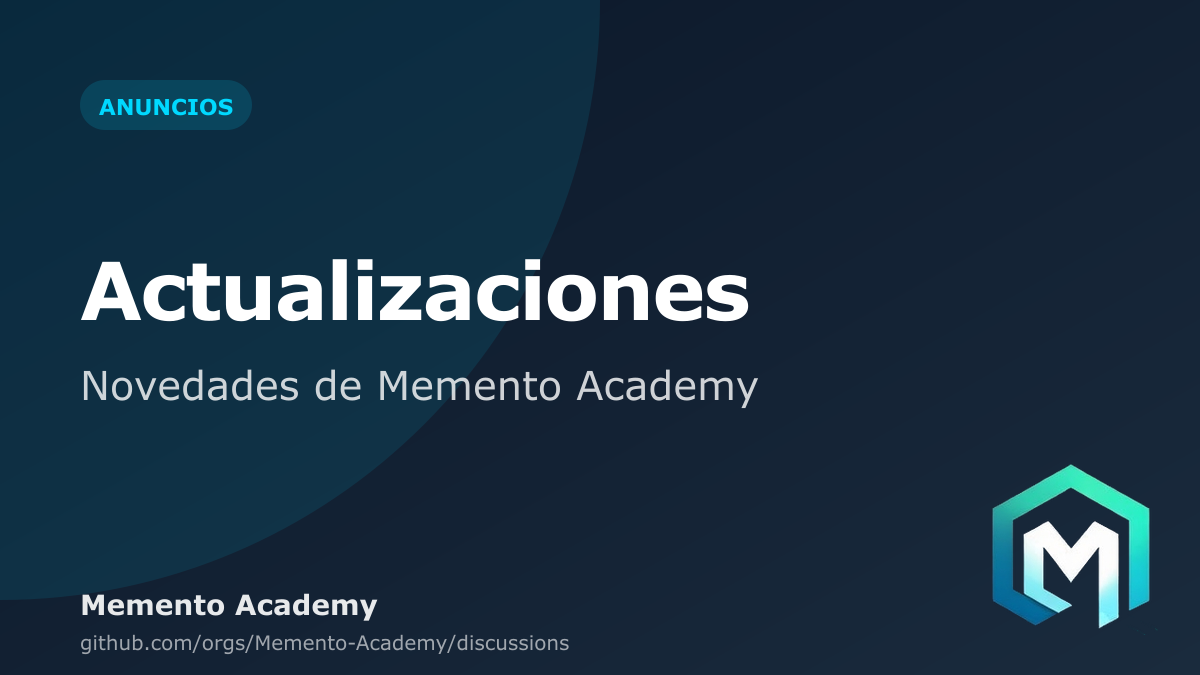
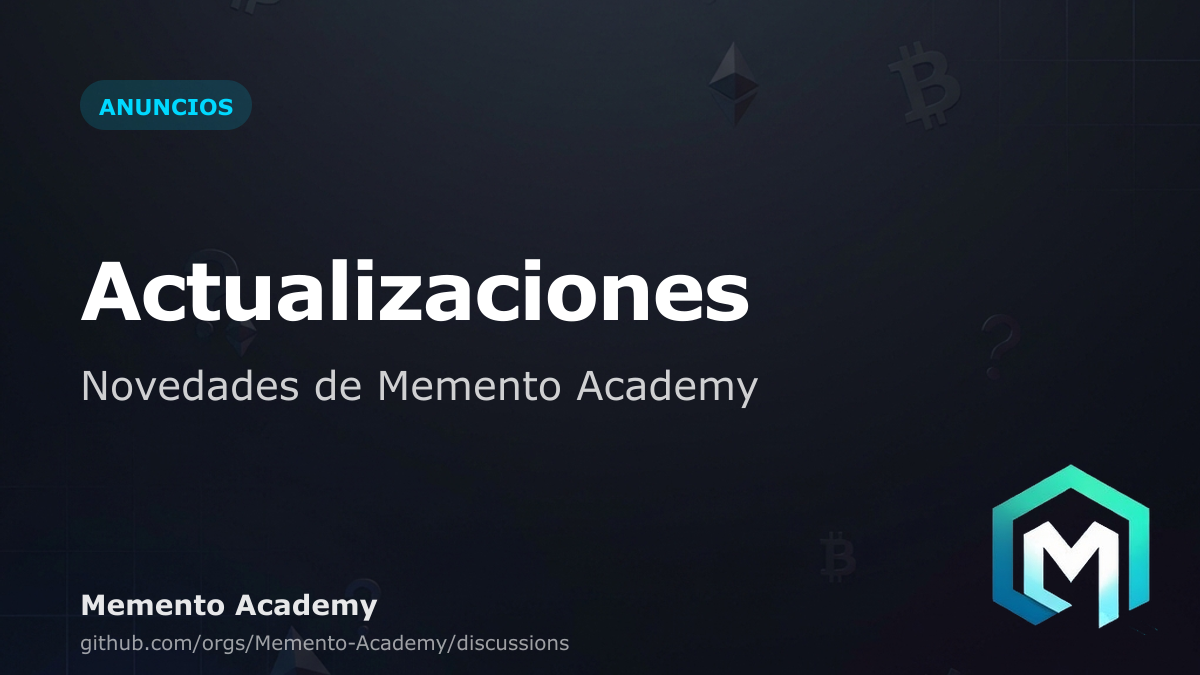
fix: use dark background for community images

diff --git a/generate-community-images.js b/generate-community-images.js
@@ -54,21 +54,30 @@ async function generateCommunityImage(options) {
   
   // Choose background gradient based on style
   let backgroundBuffer;
+  const BACKGROUND_PATH = path.join(__dirname, 'images', 'quiz-bg-dark.png');
   
-  // Simple gradient generation via SVG if no base image
-  const svgGradient = `
-    <svg width="${IMAGE_WIDTH}" height="${IMAGE_HEIGHT}">
-      <defs>
-        <linearGradient id="grad" x1="0%" y1="0%" x2="100%" y2="100%">
-          <stop offset="0%" style="stop-color:${COLORS.navy.dark};stop-opacity:1" />
-          <stop offset="100%" style="stop-color:${style === 'purple' ? COLORS.navy.light : COLORS.navy.medium};stop-opacity:1" />
-        </linearGradient>
-      </defs>
-      <rect width="${IMAGE_WIDTH}" height="${IMAGE_HEIGHT}" fill="url(#grad)"/>
-      <circle cx="${style === 'purple' ? IMAGE_WIDTH : 0}" cy="0" r="600" fill="${style === 'purple' ? COLORS.teal : COLORS.cyan}" opacity="0.1"/>
-    </svg>
-  `;
-  backgroundBuffer = Buffer.from(svgGradient);
+  try {
+     backgroundBuffer = await sharp(BACKGROUND_PATH)
+        .resize(IMAGE_WIDTH, IMAGE_HEIGHT, { fit: 'cover' })
+        .png()
+        .toBuffer();
+  } catch (err) {
+      console.warn('Background image not found, falling back to gradient');
+      // Simple gradient generation via SVG if no base image
+      const svgGradient = `
+        <svg width="${IMAGE_WIDTH}" height="${IMAGE_HEIGHT}">
+          <defs>
+            <linearGradient id="grad" x1="0%" y1="0%" x2="100%" y2="100%">
+              <stop offset="0%" style="stop-color:${COLORS.navy.dark};stop-opacity:1" />
+              <stop offset="100%" style="stop-color:${style === 'purple' ? COLORS.navy.light : COLORS.navy.medium};stop-opacity:1" />
+            </linearGradient>
+          </defs>
+          <rect width="${IMAGE_WIDTH}" height="${IMAGE_HEIGHT}" fill="url(#grad)"/>
+          <circle cx="${style === 'purple' ? IMAGE_WIDTH : 0}" cy="0" r="600" fill="${style === 'purple' ? COLORS.teal : COLORS.cyan}" opacity="0.1"/>
+        </svg>
+      `;
+      backgroundBuffer = Buffer.from(svgGradient);
+  }
 
   // SVG Overlay for text
   const svgOverlay = `
